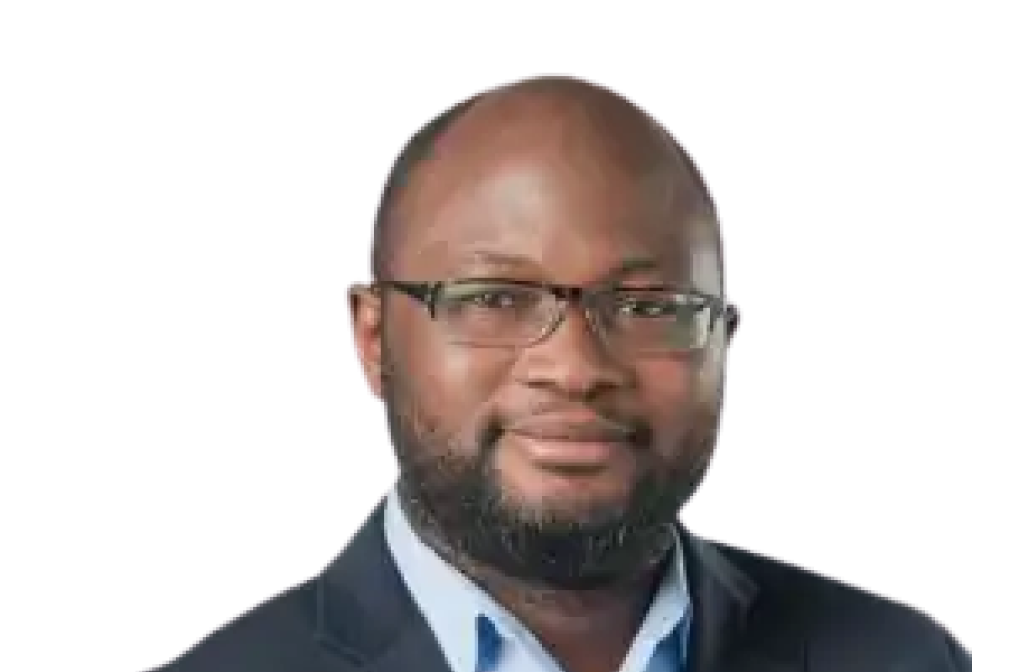
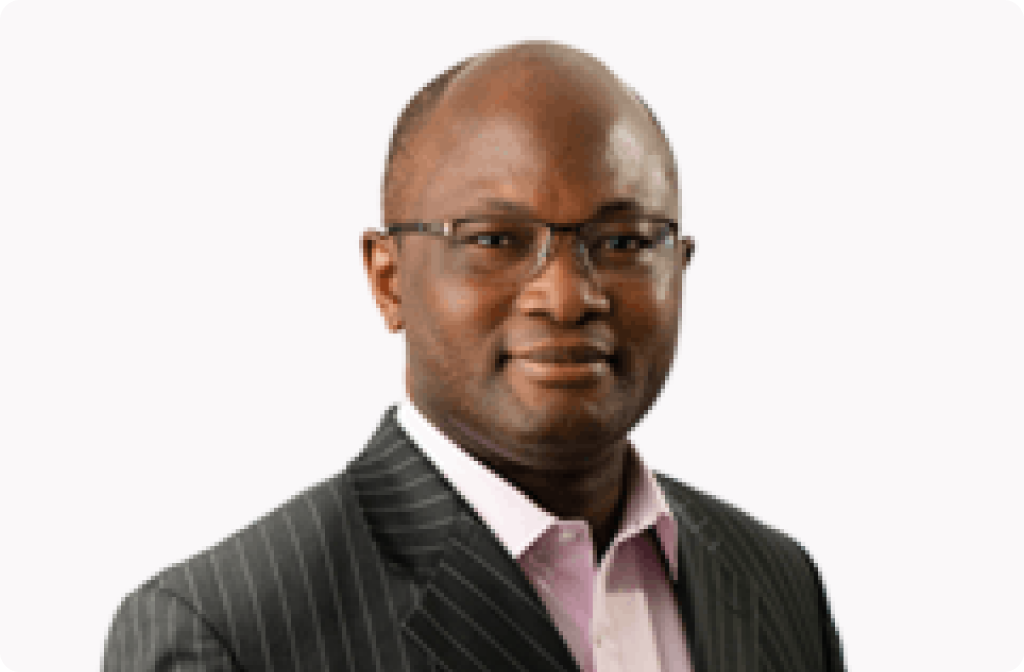
Update header nav
- Changes Jude Uzonwanne's profile image

diff --git a/header.html b/header.html
@@ -68,16 +68,12 @@
             </a>
 
             <div class="dropdown-menu" aria-labelledby="navbarDropdown">
-              <a class="dropdown-item" href="./research-services.html">
-                Research services
-              </a>
-              <a class="dropdown-item" href="#">Platform</a>
-              <a class="dropdown-item" href="#">Partnerships</a>
+              <a class="dropdown-item" href="./partnership.html">Partnerships</a>
             </div>
           </li>
 
         <li class="nav-item active">
-            <a class="nav-link" href="./biobank.html">BioBank </a>
+            <a class="nav-link" href="./about-us.html">About Us</a>
         </li>
 
         <!-- <li class="nav-item dropdown">
@@ -93,27 +89,6 @@
             </div>
           </li> -->
 
-          <li class="nav-item dropdown">
-            <a
-              class="nav-link dropdown-toggle"
-              href="#"
-              id="navbarDropdown"
-              role="button"
-              data-toggle="dropdown"
-              aria-haspopup="true"
-              aria-expanded="false"
-            >
-              About us
-              <img
-                src="./assets/img/arrow-black.svg"
-                class="img-responsive nav-arrow"
-                alt=""
-              />
-            </a>
-            <div class="dropdown-menu" aria-labelledby="navbarDropdown">
-              <a class="dropdown-item" href="./about-us.html">Who we are </a>
-            </div>
-          </li>
 
           <li class="nav-item dropdown">
             <a
@@ -133,10 +108,8 @@
               />
             </a>
             <div class="dropdown-menu" aria-labelledby="navbarDropdown">
-              <a class="dropdown-item" href="./news-and-event.html">News and Events</a>
+              <a class="dropdown-item" href="./news-events.html">News and Events</a>
               <a class="dropdown-item" href="https://blog.54gene.com">Blog</a>
-              <div class="dropdown-divider"></div>
-              <a class="dropdown-item" href="#">Something else here</a>
             </div>
           </li>
 
@@ -184,17 +157,14 @@
             </a>
 
             <div class="dropdown-menu" aria-labelledby="navbarDropdown">
-              <a class="dropdown-item" href="./research-services.html">
-                Research services
-              </a>
               <a class="dropdown-item" href="#">Platform</a>
               <a class="dropdown-item" href="#">Partnerships</a>
             </div>
           </li>
 
-      <li class="nav-item active">
-          <a class="nav-link" href="./biobank.html">BioBank </a>
-      </li>
+        <li class="nav-item active">
+            <a class="nav-link" href="./about-us.html">About Us</a>
+        </li>
 <!-- 
       <li class="nav-item dropdown">
           <a class="nav-link dropdown-toggle" href="#" id="navbarDropdown" role="button" data-toggle="dropdown" aria-haspopup="true" aria-expanded="false">
@@ -209,27 +179,6 @@
           </div>
         </li> -->
 
-          <li class="nav-item dropdown">
-            <a
-              class="nav-link dropdown-toggle"
-              href="#"
-              id="navbarDropdown"
-              role="button"
-              data-toggle="dropdown"
-              aria-haspopup="true"
-              aria-expanded="false"
-            >
-              About us
-              <img
-                src="./assets/img/arrow-black.svg"
-                class="img-responsive nav-arrow"
-                alt=""
-              />
-            </a>
-            <div class="dropdown-menu" aria-labelledby="navbarDropdown">
-              <a class="dropdown-item" href="./about-us.html">Who we are </a>
-            </div>
-          </li>
 
           <li class="nav-item dropdown">
             <a
@@ -249,10 +198,8 @@
               />
             </a>
             <div class="dropdown-menu" aria-labelledby="navbarDropdown">
-              <a class="dropdown-item" href="#">Action</a>
-              <a class="dropdown-item" href="#">Another action</a>
-              <div class="dropdown-divider"></div>
-              <a class="dropdown-item" href="#">Something else here</a>
+              <a class="dropdown-item" href="./news-events.html">News and Events</a>
+              <a class="dropdown-item" href="https://blog.54gene.com">Blog</a>
             </div>
           </li>
 
@@ -288,12 +235,9 @@
           >
             Services
           </a>
-          <div class="dropdown-menu" aria-labelledby="navbarDropdown">
-            <a class="dropdown-item" href="#">Action</a>
-            <a class="dropdown-item" href="#">Another action</a>
-            <div class="dropdown-divider"></div>
-            <a class="dropdown-item" href="#">Something else here</a>
-          </div>
+            <div class="dropdown-menu" aria-labelledby="navbarDropdown">
+              <a class="dropdown-item" href="./partnership.html">Partnerships</a>
+            </div>
         </li>
 
         <li class="nav-item active">
@@ -318,17 +262,14 @@
                   aria-haspopup="true" aria-expanded="false">
                   Services
                 </a>
-                <div class="dropdown-menu" aria-labelledby="navbarDropdown">
-                  <a class="dropdown-item" href="#">Action</a>
-                  <a class="dropdown-item" href="#">Another action</a>
-                  <div class="dropdown-divider"></div>
-                  <a class="dropdown-item" href="#">Something else here</a>
-                </div>
+            <div class="dropdown-menu" aria-labelledby="navbarDropdown">
+              <a class="dropdown-item" href="./partnership.html">Partnerships</a>
+            </div>
               </li>
 
-              <li class="nav-item active">
-                <a class="nav-link" href="./biobank.html">BioBank </a>
-              </li>
+        <li class="nav-item active">
+            <a class="nav-link" href="./about-us.html">About Us</a>
+        </li>
 
               <!-- <li class="nav-item dropdown">
                 <a class="nav-link dropdown-toggle" href="#" id="navbarDropdown" role="button" data-toggle="dropdown"
@@ -375,12 +316,10 @@
           >
             Resources
           </a>
-          <div class="dropdown-menu" aria-labelledby="navbarDropdown">
-            <a class="dropdown-item" href="#">Action</a>
-            <a class="dropdown-item" href="#">Another action</a>
-            <div class="dropdown-divider"></div>
-            <a class="dropdown-item" href="#">Something else here</a>
-          </div>
+            <div class="dropdown-menu" aria-labelledby="navbarDropdown">
+              <a class="dropdown-item" href="./news-events.html">News and Events</a>
+              <a class="dropdown-item" href="https://blog.54gene.com">Blog</a>
+            </div>
         </li>
 
         <!-- <li class="nav-item pull-right">
